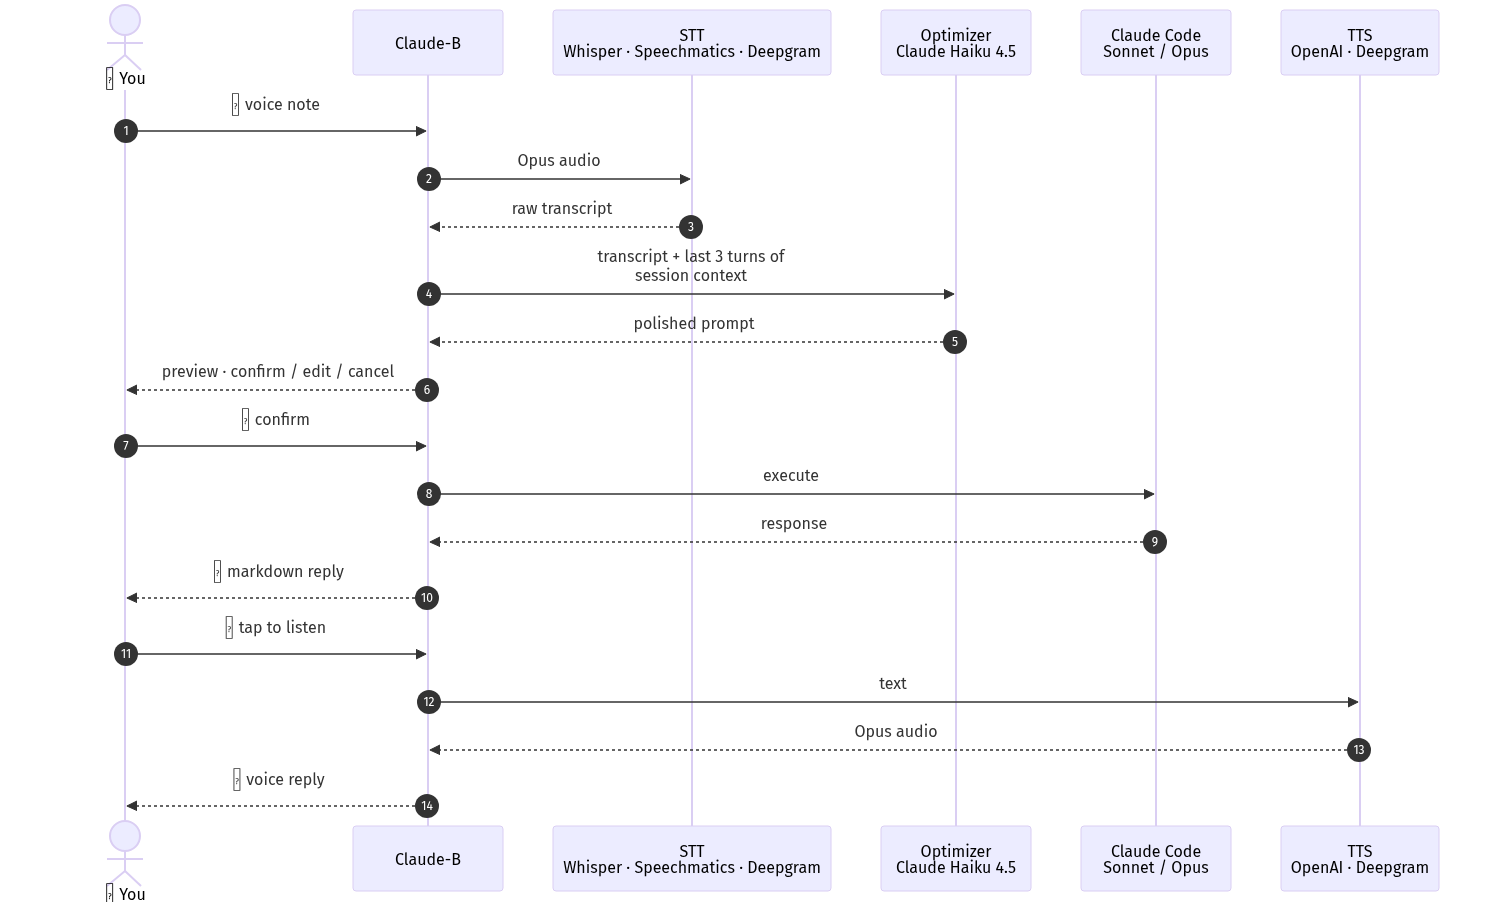
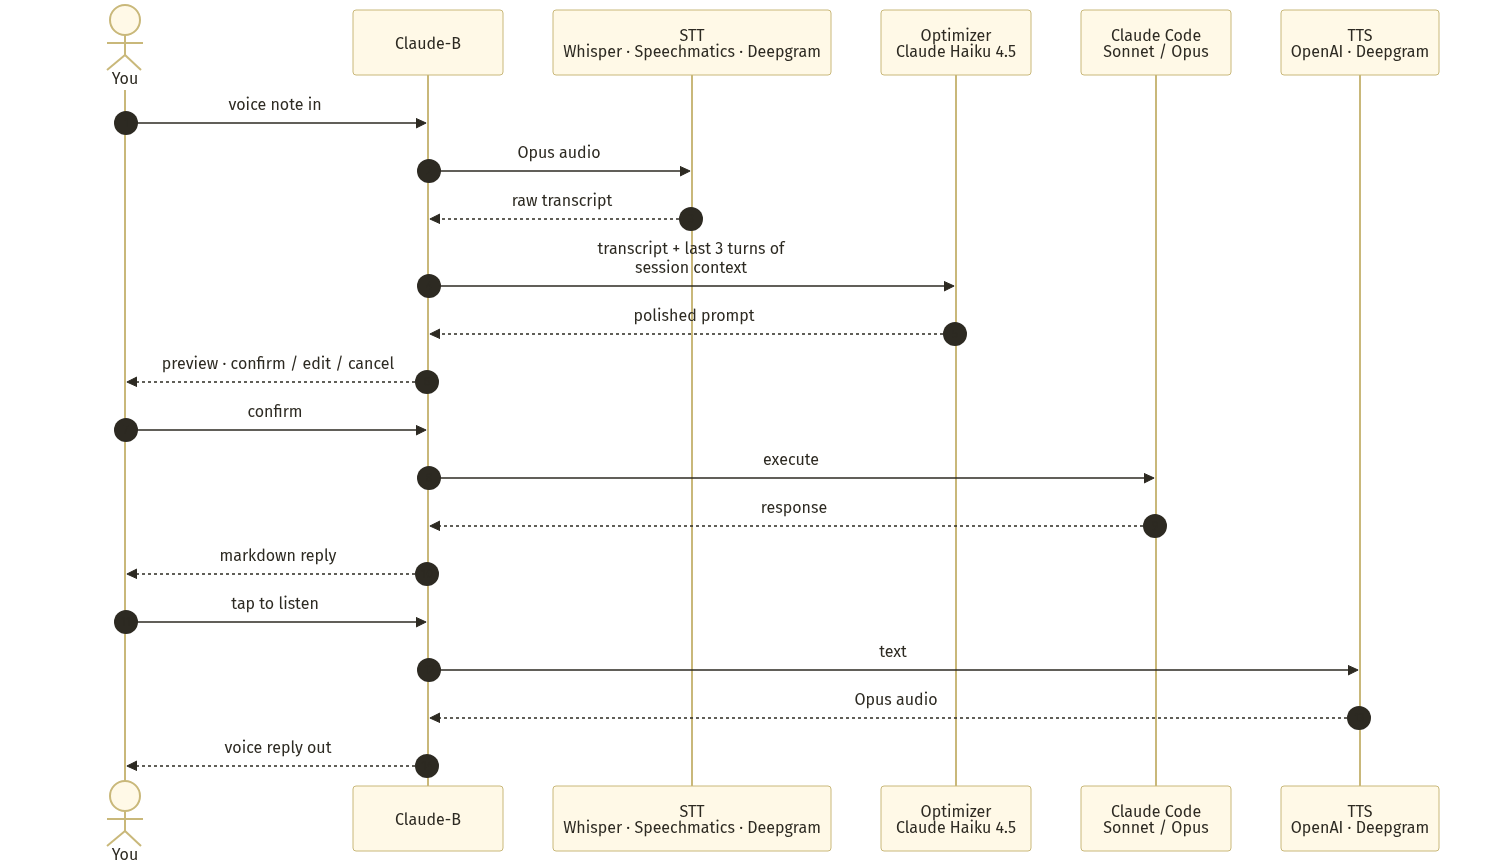
Re-theme voice pipeline diagram with warm-white background
- Background #fdf7e9 (warm paper), actor boxes #fff9e7 (cream), borders
  #c9b87a (muted gold), text #2d2a22 (dark umber) — easier on the eye
  than default grey.
- Drop emojis from the mermaid source: kroki's server-side renderer has
  no emoji font and was producing placeholder boxes in the PNG. Replace
  with plain text labels ("voice note in", "tap to listen", etc.) so the
  diagram reads identically on GitHub (native mermaid) and DockerHub
  (rendered PNG).

diff --git a/README.md b/README.md
@@ -30,29 +30,49 @@ the thing we were just working on"* and an actionable prompt Claude Code can
 actually execute.
 
 ```mermaid
+%%{init: {'theme':'base', 'themeVariables': {
+  'background': '#fdf7e9',
+  'primaryColor': '#fff9e7',
+  'primaryTextColor': '#2d2a22',
+  'primaryBorderColor': '#c9b87a',
+  'lineColor': '#8a7338',
+  'actorBkg': '#fff9e7',
+  'actorBorder': '#c9b87a',
+  'actorTextColor': '#2d2a22',
+  'activationBkgColor': '#fff2c6',
+  'activationBorderColor': '#c9b87a',
+  'noteBkgColor': '#fff9e7',
+  'noteBorderColor': '#c9b87a',
+  'signalColor': '#2d2a22',
+  'signalTextColor': '#2d2a22',
+  'labelBoxBkgColor': '#fff9e7',
+  'labelBoxBorderColor': '#c9b87a',
+  'labelTextColor': '#2d2a22',
+  'sequenceNumberColor': '#2d2a22'
+}}}%%
 sequenceDiagram
     autonumber
-    actor U as 📱 You
+    actor U as You
     participant B as Claude-B
     participant STT as STT<br/>Whisper · Speechmatics · Deepgram
     participant O as Optimizer<br/>Claude Haiku 4.5
     participant C as Claude Code<br/>Sonnet / Opus
     participant T as TTS<br/>OpenAI · Deepgram
 
-    U->>B: 🎤 voice note
+    U->>B: voice note in
     B->>STT: Opus audio
     STT-->>B: raw transcript
     B->>O: transcript + last 3 turns of<br/>session context
     O-->>B: polished prompt
     B-->>U: preview · confirm / edit / cancel
-    U->>B: ✅ confirm
+    U->>B: confirm
     B->>C: execute
     C-->>B: response
-    B-->>U: 📝 markdown reply
-    U->>B: 🔊 tap to listen
+    B-->>U: markdown reply
+    U->>B: tap to listen
     B->>T: text
     T-->>B: Opus audio
-    B-->>U: 🎧 voice reply
+    B-->>U: voice reply out
 ```
 
 Every stage is provider-swappable via `~/.claude-b/telegram.json`. Default
